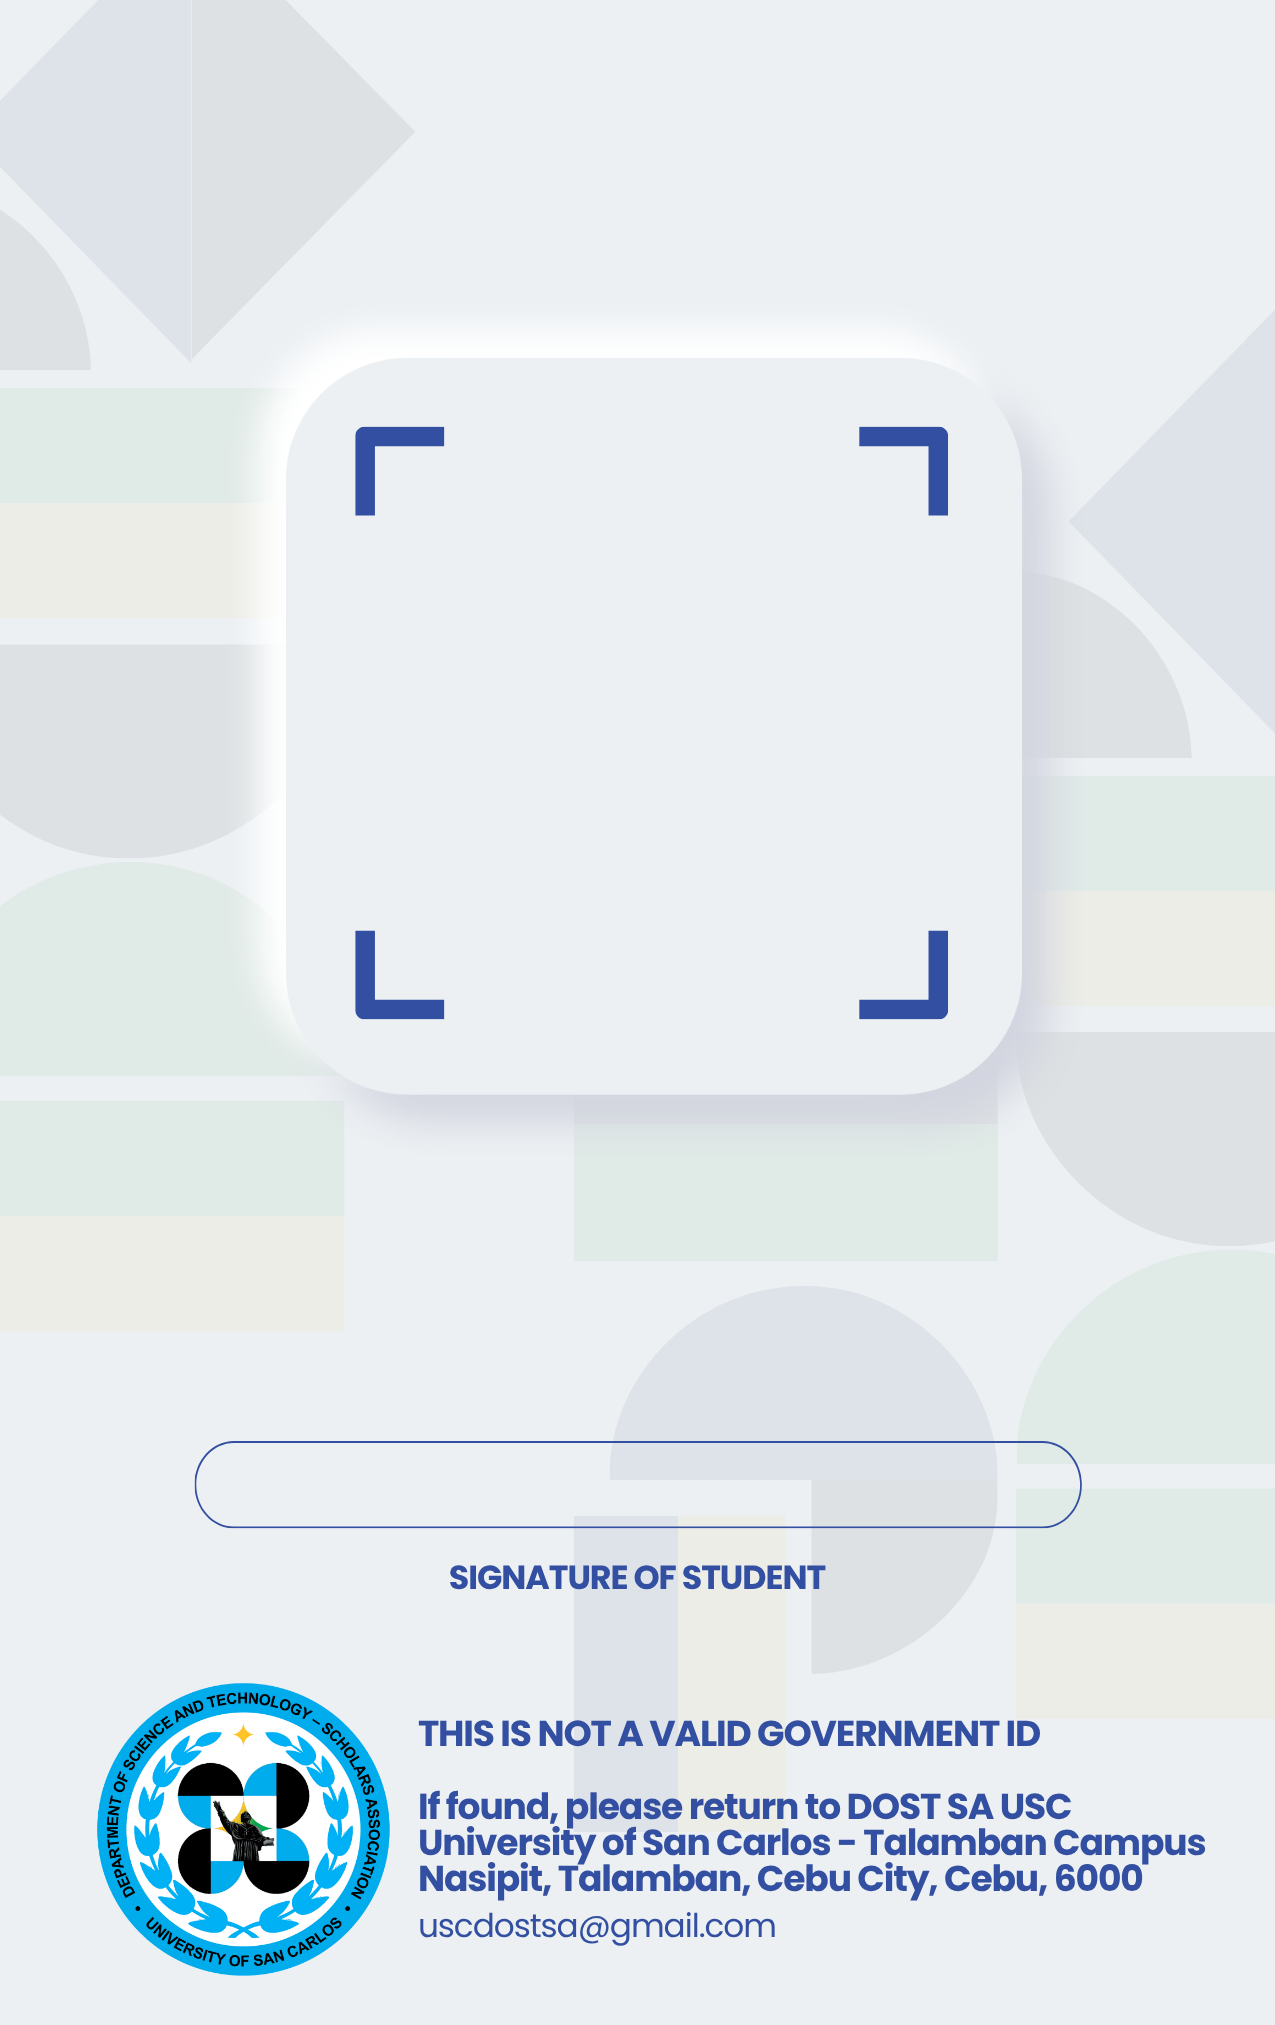
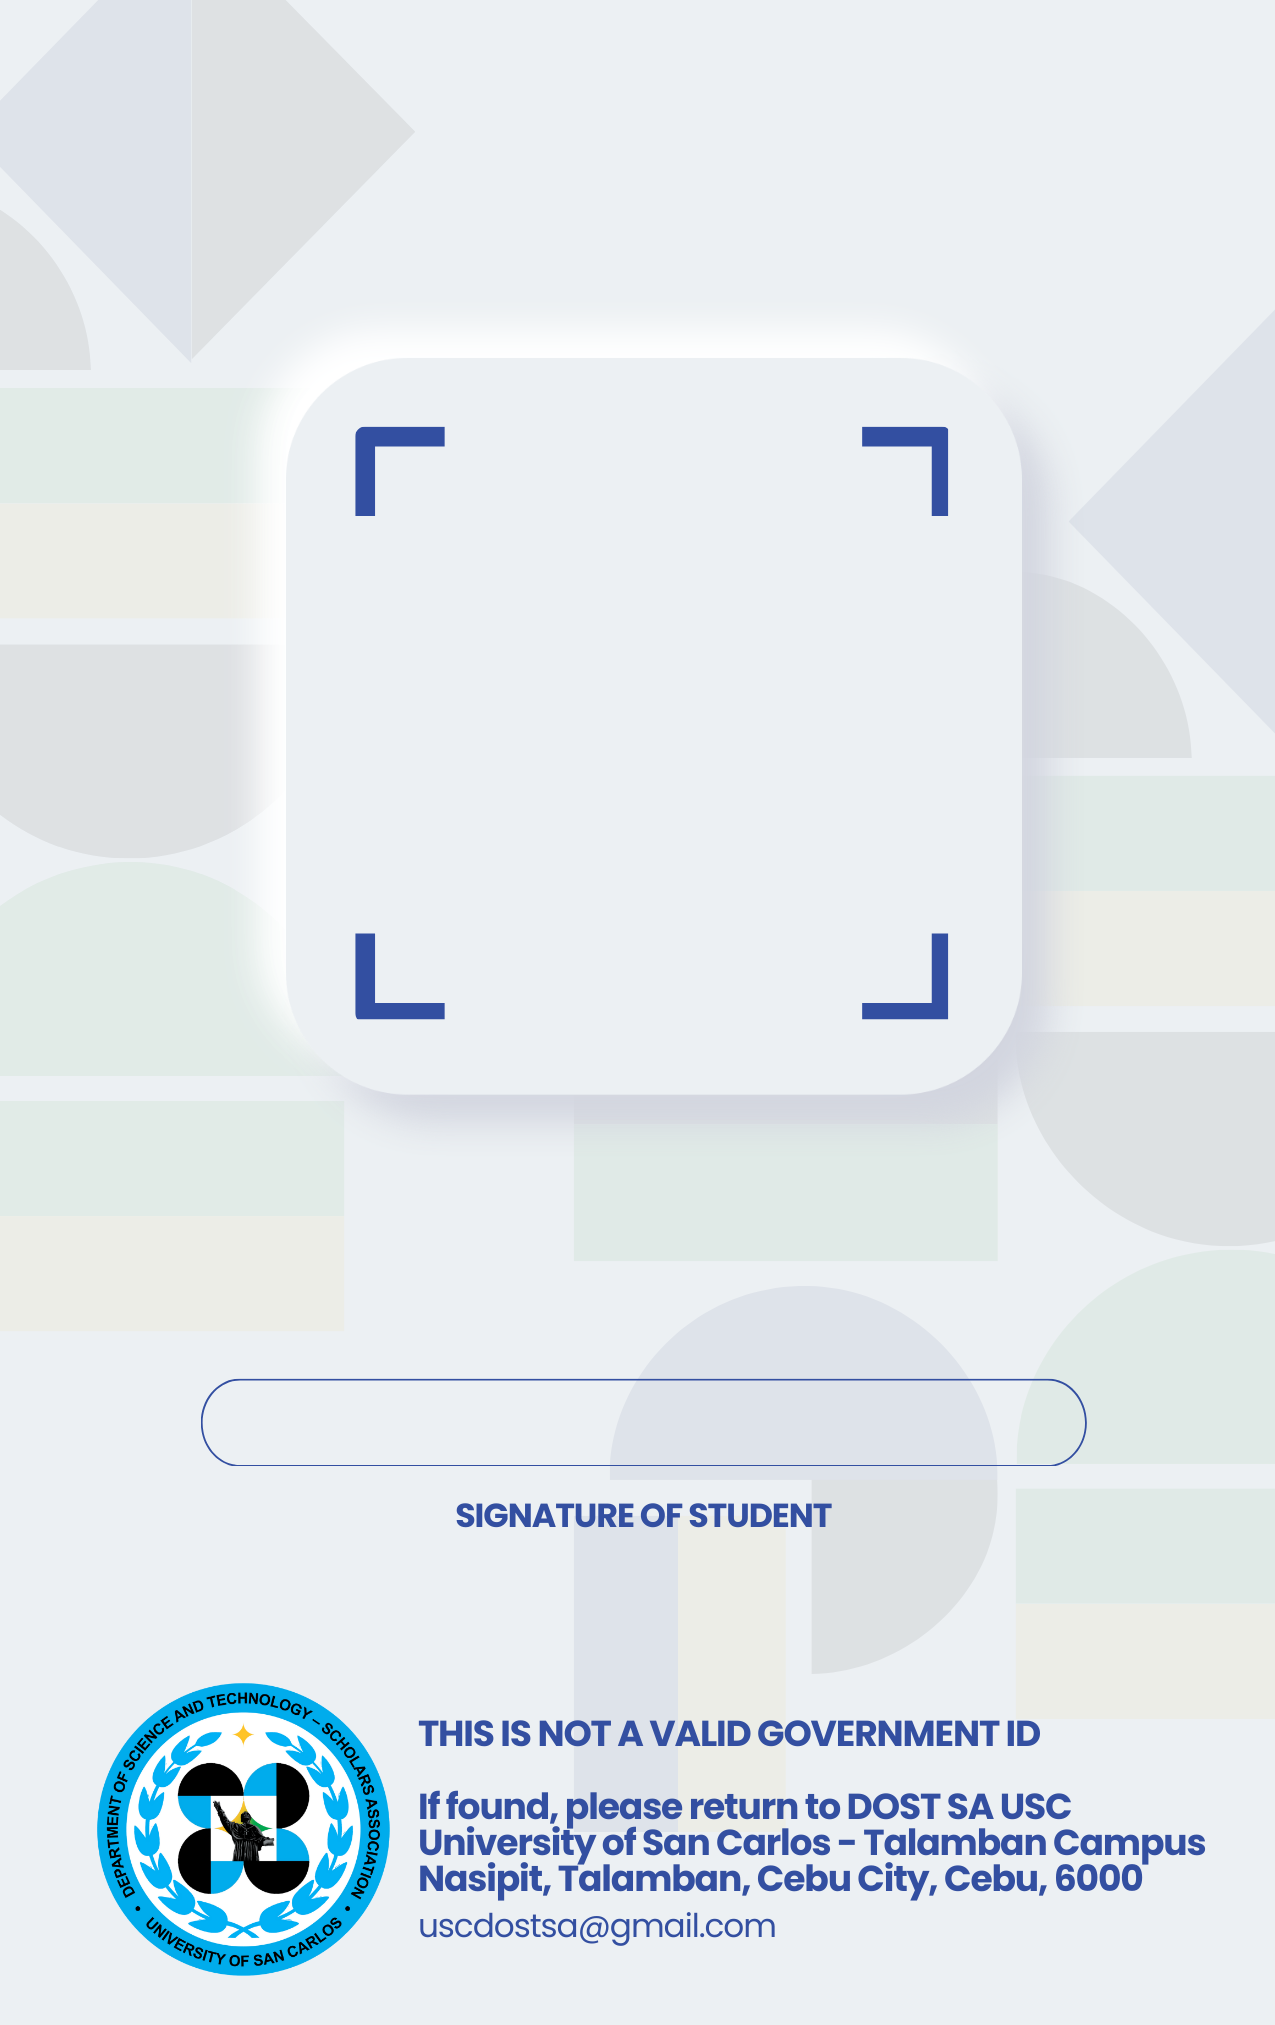
feat: update id design

Changed region(s): [[0.3365, 0.7156, 0.6424, 0.8089], [0.7035, 0.4667, 0.7341, 0.4978], [0.7035, 0.2178, 0.7341, 0.2489]]

diff --git a/src/components/dashboard/id/id-component.tsx b/src/components/dashboard/id/id-component.tsx
@@ -98,13 +98,6 @@ const IDComponent = React.forwardRef<
             <p className="mt-10 text-[10px] font-[600] italic">
               Scholar ID Card valid until {Number(user.yearOfAward) + 5}
             </p>
-
-            <div className="mt-4 text-center">
-              <p className="text-[12px] leading-3 font-[600]">
-                {process.env.NEXT_PUBLIC_COOL_PERSON!.toUpperCase()}
-              </p>
-              <p className="text-[8px]">AUTHORIZED SIGNATURE</p>
-            </div>
           </div>
         </div>
       </HoverCard>
